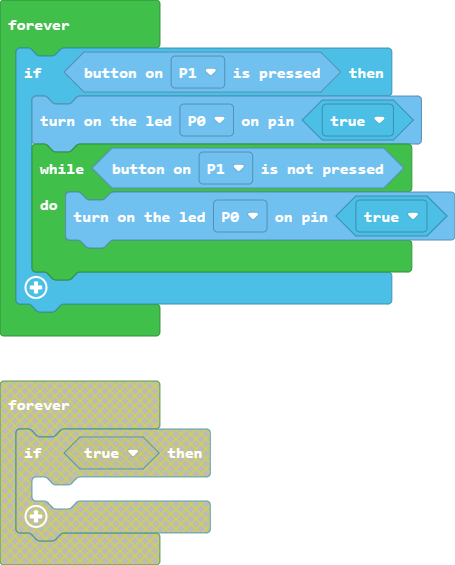
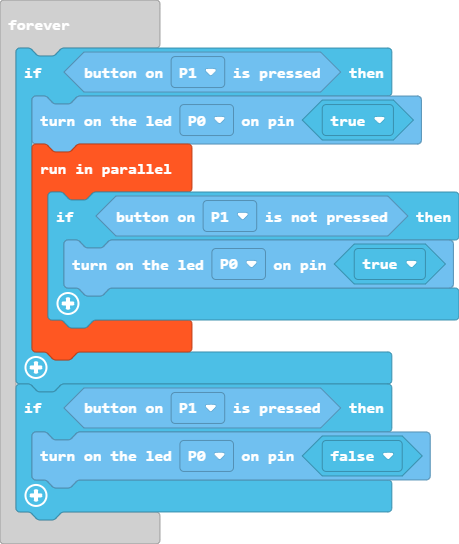
j'ai essayé qqlchose. Plus qu'à essayer mtn

diff --git a/main.ts b/main.ts
@@ -1,8 +1,13 @@
 forever(function () {
     if (iscmons.button_is_pressed(pins.P1)) {
         iscmons.led_turn(pins.P0, true)
-        while (iscmons.button_is_not_pressed(pins.P1)) {
-            iscmons.led_turn(pins.P0, true)
-        }
+        control.runInParallel(function () {
+            if (iscmons.button_is_not_pressed(pins.P1)) {
+                iscmons.led_turn(pins.P0, true)
+            }
+        })
+    }
+    if (iscmons.button_is_pressed(pins.P1)) {
+        iscmons.led_turn(pins.P0, false)
     }
 })

diff --git a/main.py b/main.py
@@ -1,0 +1,10 @@
+let lgp = 0
+forever(function () {
+    if (iscmons.button_is_pressed(pins.P1)) {
+        lgp = 1
+    } else if (iscmons.button_is_not_pressed(pins.LED)) {
+        lgp = 1
+    } else {
+    	
+    }
+})
